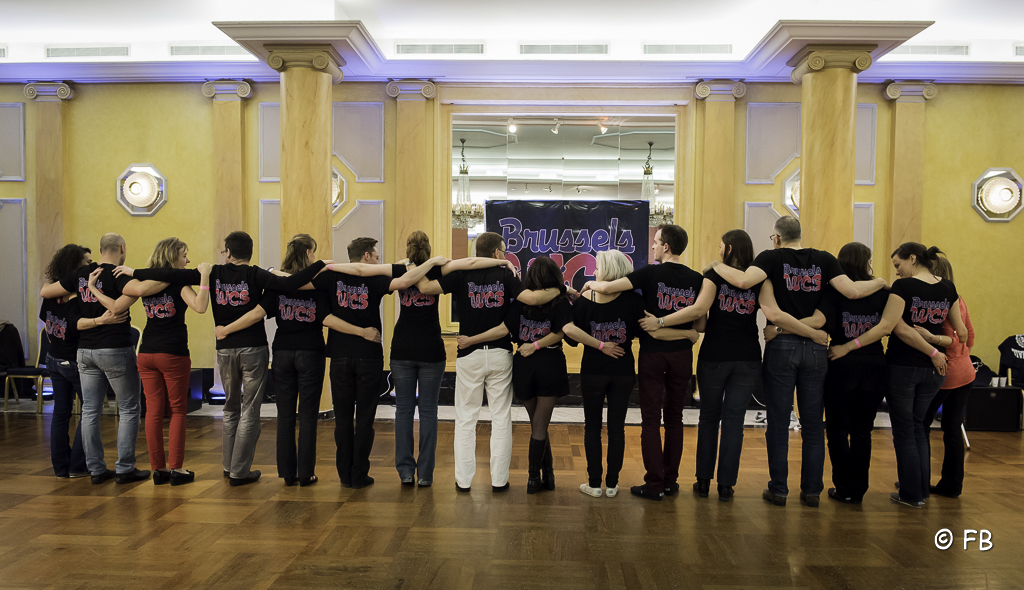
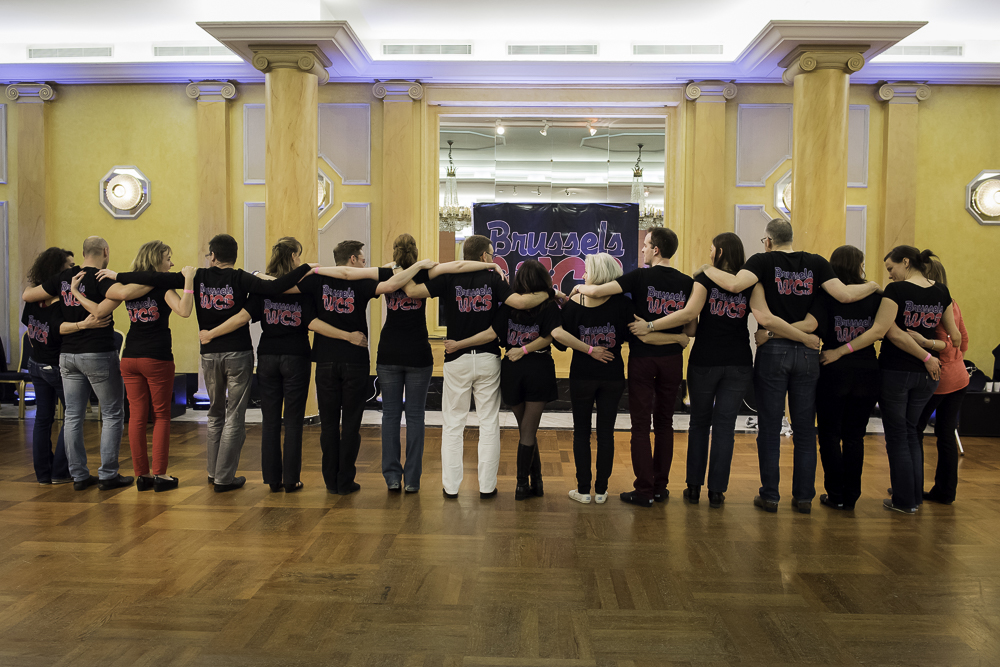
added homepage corrections, to do: inscription + page inscription

diff --git a/app/assets/stylesheets/framework_and_overrides.css.scss b/app/assets/stylesheets/framework_and_overrides.css.scss
@@ -123,7 +123,7 @@ section {
   color: #f9cee1;
   font-size: 6.3em; 
   text-shadow: 0 2px 4px #000000;
-  background-image: image-url('couple_turn.jpeg');
+  background-image: image-url('_DSC0506.jpg');
   min-height: 595px;
   background-align: center;
   background-repeat: no-repeat;
@@ -132,7 +132,7 @@ section {
 }
 
 .little {
-  font-size: 0.8em;
+  font-size: 0.7em;
 }
 
 .subscribe_btn {
